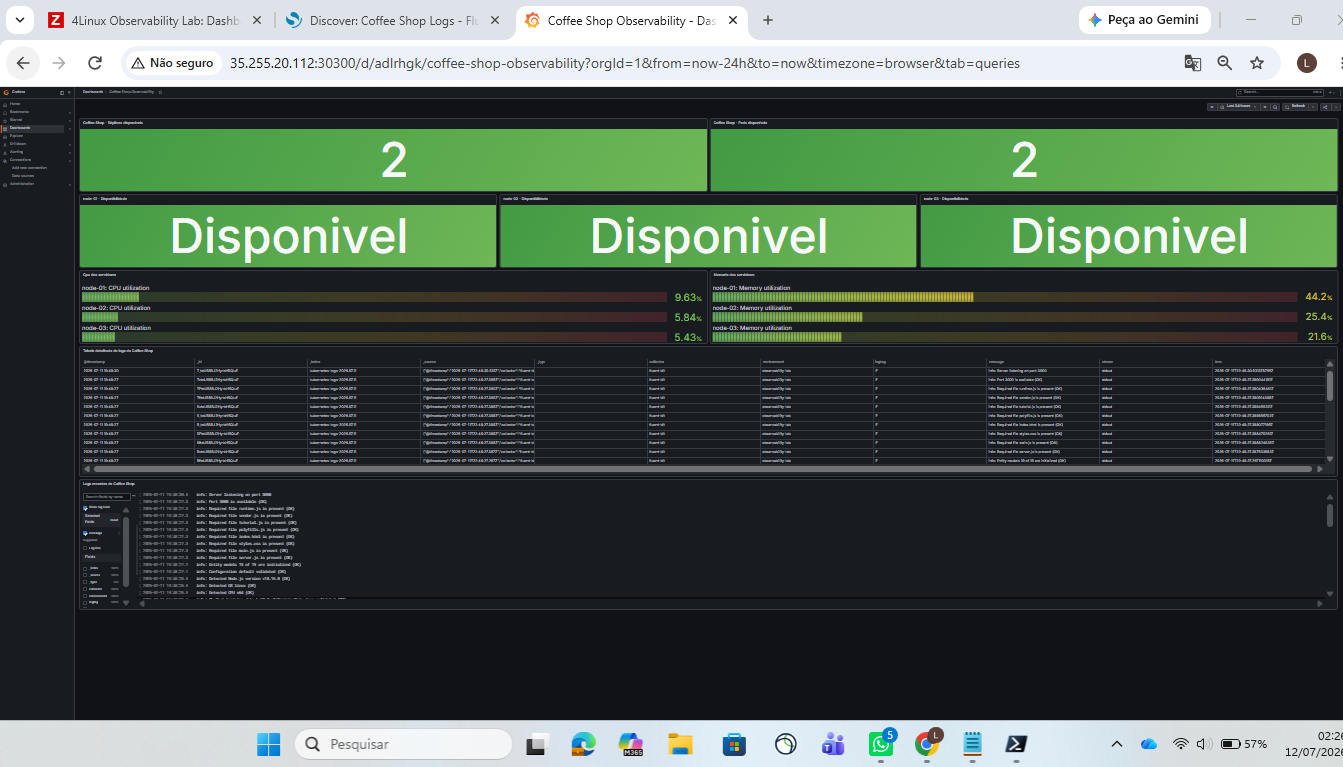
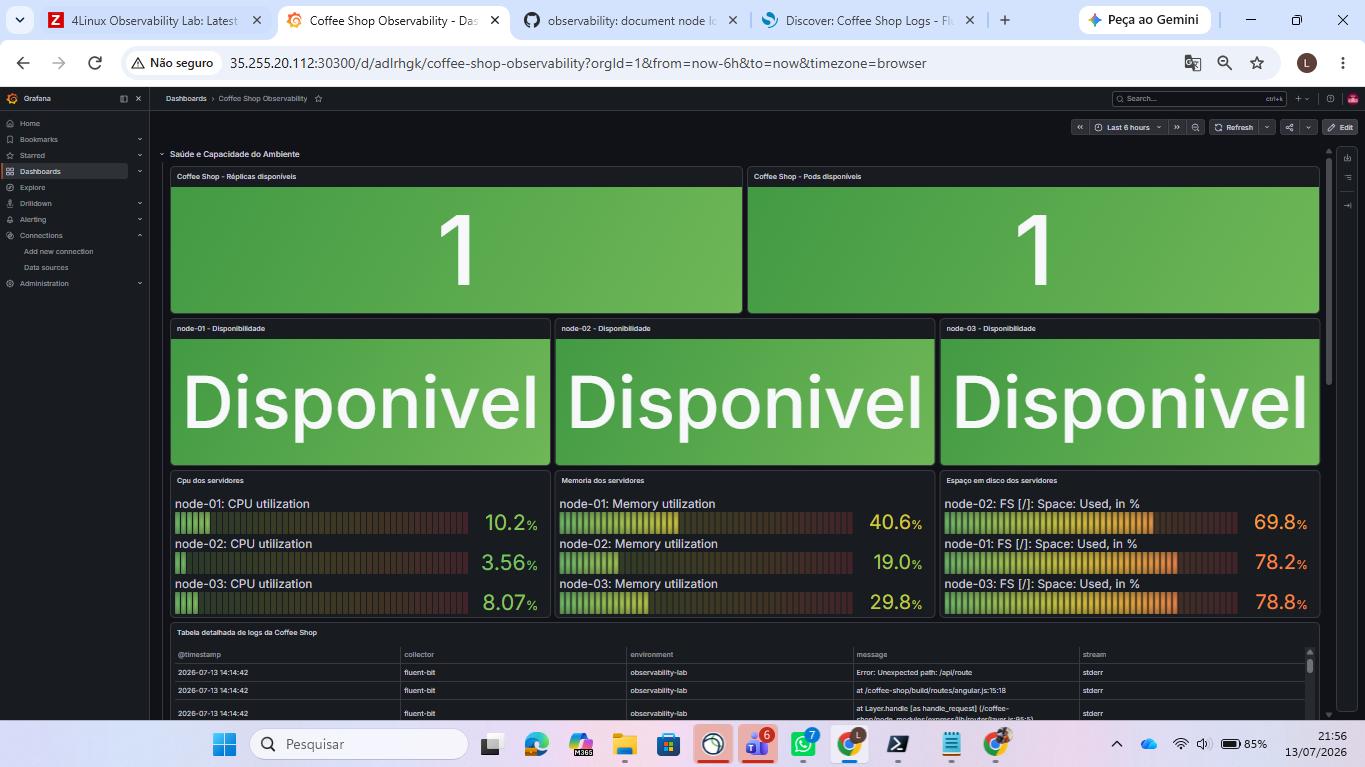
docs: add server disk capacity to Grafana dashboard

diff --git a/REPORT.md b/REPORT.md
@@ -222,7 +222,7 @@ O dashboard reúne dados do Prometheus, Zabbix e das duas fontes OpenSearch.
 
 A organização foi dividida nas seguintes seções:
 
-- `Visão Geral do Ambiente`;
+- `Saúde e Capacidade do Ambiente`;
 - `Logs e Eventos dos Nós Kubernetes`.
 
 Os painéis apresentam:
@@ -232,6 +232,7 @@ Os painéis apresentam:
 - disponibilidade dos três servidores;
 - utilização de CPU;
 - utilização de memória;
+- utilização de espaço em disco dos três servidores;
 - tabela detalhada de logs da aplicação;
 - mensagens recentes da Coffee Shop;
 - eventos recentes do k3s;
@@ -294,6 +295,7 @@ O dashboard consolidado permite correlacionar:
 - métricas da aplicação;
 - disponibilidade dos servidores;
 - utilização de recursos;
+- utilização de espaço em disco dos servidores;
 - logs da Coffee Shop;
 - eventos do k3s;
 - erros e alertas dos nós.
@@ -309,11 +311,11 @@ Como melhorias futuras, recomenda-se:
 
 ## Evidência visual do dashboard
 
-As imagens abaixo apresentam o dashboard consolidado no Grafana, dividido entre a visão geral do ambiente e a área de logs dos nós.
+As imagens abaixo apresentam o dashboard consolidado no Grafana, dividido entre a seção de saúde e capacidade do ambiente e a área de logs dos nós.
 
-### Visão geral do ambiente
+### Saúde e capacidade do ambiente
 
-![Coffee Shop Observability - Visão Geral](docs/images/coffee-shop-observability-overview.png)
+![Coffee Shop Observability - Saúde e Capacidade do Ambiente](docs/images/coffee-shop-observability-overview.png)
 
 ### Logs e eventos dos nós Kubernetes
 
